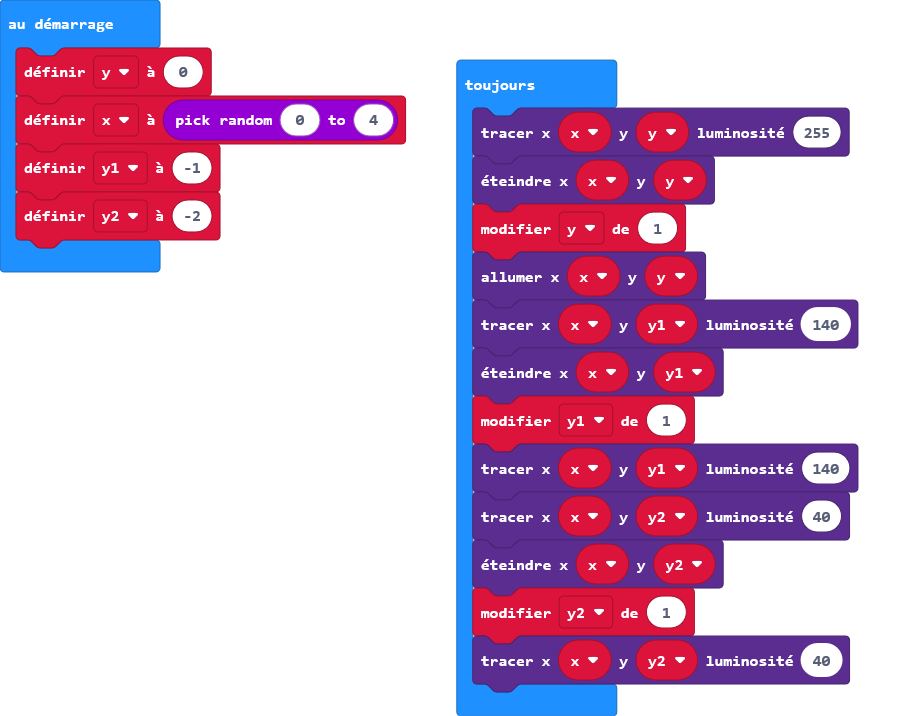
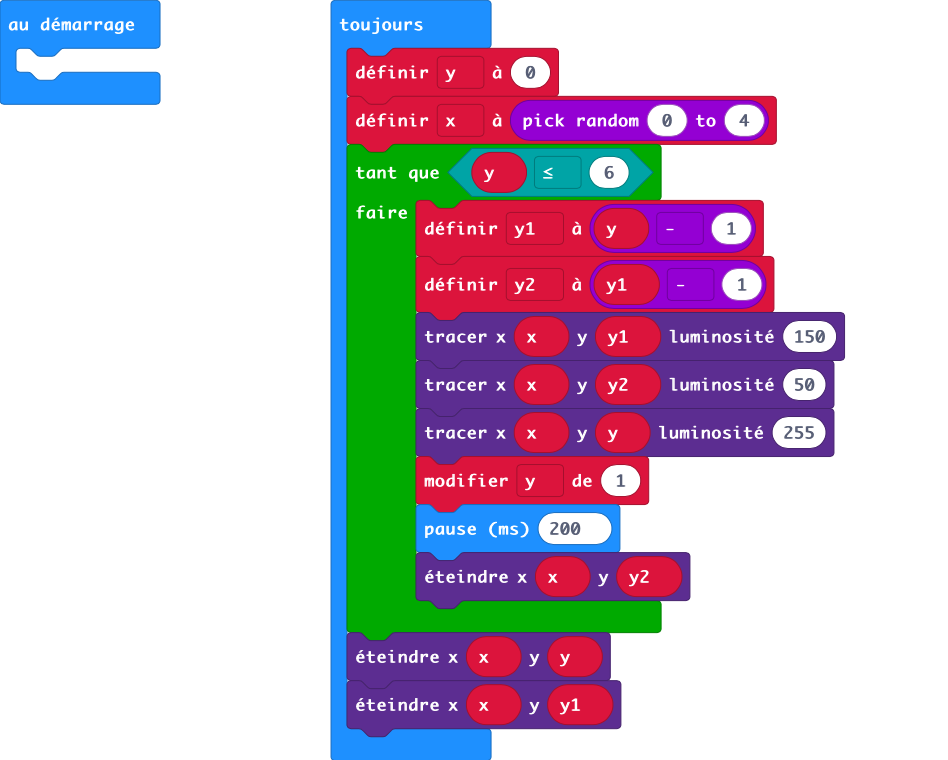
Mise à jour main.blocks, main.ts

diff --git a/main.ts b/main.ts
@@ -1,18 +1,20 @@
 let y = 0
-let x = randint(0, 4)
-let y1 = -1
-let y2 = -2
+let x = 0
+let y1 = 0
+let y2 = 0
 basic.forever(function () {
-    led.plotBrightness(x, y, 255)
+    y = 0
+    x = randint(0, 4)
+    while (y <= 6) {
+        y1 = y - 1
+        y2 = y1 - 1
+        led.plotBrightness(x, y1, 150)
+        led.plotBrightness(x, y2, 50)
+        led.plotBrightness(x, y, 255)
+        y += 1
+        basic.pause(200)
+        led.unplot(x, y2)
+    }
     led.unplot(x, y)
-    y += 1
-    led.plot(x, y)
-    led.plotBrightness(x, y1, 140)
     led.unplot(x, y1)
-    y1 += 1
-    led.plotBrightness(x, y1, 140)
-    led.plotBrightness(x, y2, 40)
-    led.unplot(x, y2)
-    y2 += 1
-    led.plotBrightness(x, y2, 40)
 })
